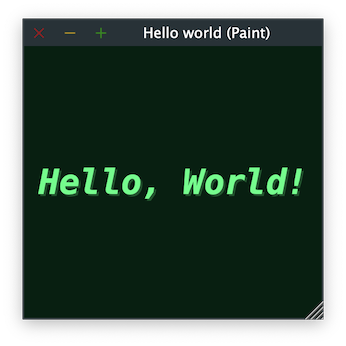
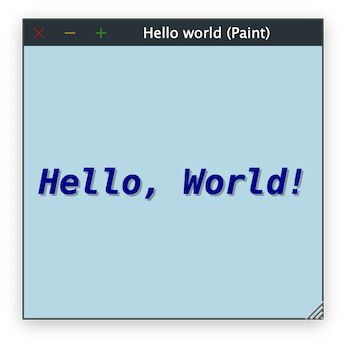
Update HelloWorldPaint example

diff --git a/juce_gui_basics/HelloWorlds/HelloWorldPaint/src/HelloWorldPaint.cpp b/juce_gui_basics/HelloWorlds/HelloWorldPaint/src/HelloWorldPaint.cpp
@@ -6,18 +6,17 @@ namespace HelloWorldLabelExample {
   class OwnerDrawComponent : public Component {
   protected:
     void paint(Graphics &g) override {
-      g.fillAll({0x0, 0x20, 0x10});
+      g.fillAll(Colours::lightblue);
       
       g.setFont({Font::getDefaultMonospacedFontName(), 40, Font::FontStyleFlags::bold | Font::FontStyleFlags::italic});
       auto text = "Hello, World!";
-      auto textColour = Colours::springgreen;
-      g.setColour(textColour.darker(2.0f));
+      g.setColour(Colours::lightblue.darker());
       auto textRect = g.getClipBounds();
       auto shadowTextRect = textRect;
       shadowTextRect.translate(2, 2);
       g.drawText(text, shadowTextRect, Justification::centred);
       
-      g.setColour(textColour);
+      g.setColour(Colours::darkblue);
       g.drawText(text, textRect, Justification::centred);
     }
   };
